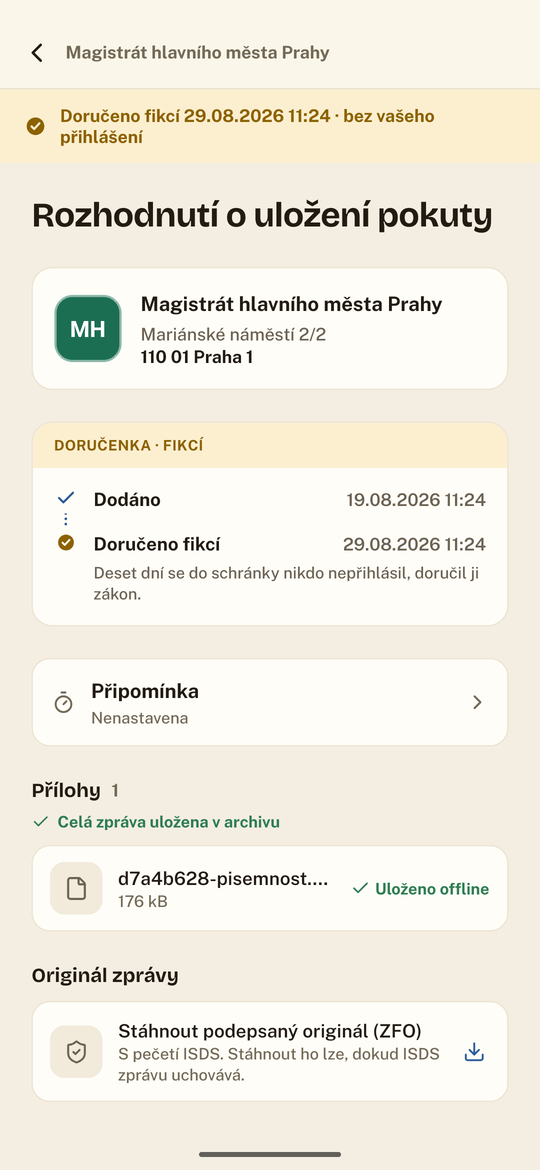
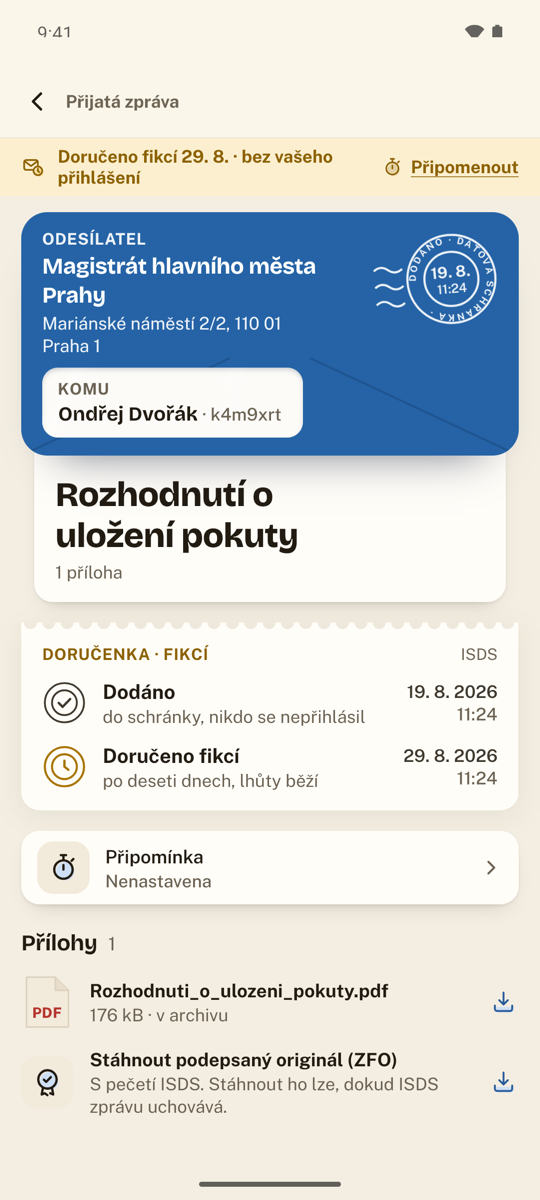
The README shows the redesigned app, and names who runs ISDS
Every picture in the README was from 2026-10-04, before the redesign:
both banners and 22 screenshots showed the old inbox. As chosen by the
owner (2026-11-18, dorhawk-website design/proposals/new-screens.html):

- Banners (cs, en): the same layout, the new merged inbox in light and
  dark from today's build.
- Screenshots: 24 new ones, 540 x 1200 (cs, en), taken on a Pixel 8
  emulator with the demo archive. The message, compose and the dark
  message come in; "Přílohy samy" goes (its options are in Settings).
  Captions in the app's words today ("V ostatních schránkách").
- "ani my" (twice) speaks as the project: "ani vývojáři".
- ISDS is administered by the Digitální a informační agentura and run by
  Česká pošta, as the website says; the README named the Ministerstvo
  vnitra (Co Obálka není, Licence; en too).

The film still shows the old design; its remake follows separately.

Checked: check-voice no findings; check-copy (cs on README.md, en on
README.en.md) no findings; every image path in both READMEs exists.

diff --git a/README.md b/README.md
@@ -74,26 +74,26 @@ Klient datových schránek pro Android a iOS. Otevřený kód, žádný server a
 
 <div align="center">
 
-| Sloučená schránka | Doručenka | Přepínač schránek |
+| Sloučená schránka | Zpráva a doručenka | Přepínač schránek |
 |:---:|:---:|:---:|
 | <img src="docs/screenshots/03-unified.png" width="230"> | <img src="docs/screenshots/04-detail.png" width="230"> | <img src="docs/screenshots/02-switcher.png" width="230"> |
-| Všechny schránky v jednom seznamu. Štítek u každé zprávy říká, kam přišla. | Co se stalo a kdy. Krok se zobrazí jen pro to, co se skutečně stalo. | Nepřečtené u každé schránky. „Vše“ je vidět, že je něco jiného než schránka. |
+| Všechny schránky v jednom seznamu. Štítek u každé zprávy říká, kam přišla. | Odesílatel a adresát na obálce, razítko s datem dodání, doručenka pod dopisem. | Nepřečtené u každé schránky. „Všechny schránky“ jsou vidět jako souhrn, ne jako další schránka. |
 
-| Hledání | Jedna schránka | Nastavení |
+| Hledání | Jedna schránka | Nová zpráva |
 |:---:|:---:|:---:|
-| <img src="docs/screenshots/05-search.png" width="230"> | <img src="docs/screenshots/01-inbox-box.png" width="230"> | <img src="docs/screenshots/06-settings.png" width="230"> |
-| Napříč všemi schránkami, v místním archivu, bez připojení. | Řádek „Jinde“ řekne, že něco leží i jinde, aniž by odvedl pozornost. | Vzhled, jazyk, zámek, přílohy, termíny, diagnostika. |
+| <img src="docs/screenshots/05-search.png" width="230"> | <img src="docs/screenshots/01-inbox-box.png" width="230"> | <img src="docs/screenshots/13-compose.png" width="230"> |
+| Napříč všemi schránkami, v místním archivu, bez připojení a bez diakritiky. | Řádek „V ostatních schránkách“ řekne, kolik nepřečteného leží jinde, a neodvede pozornost. | Adresuje se jako dopis: od koho a komu, příjemce podle jména nebo ID schránky. |
 
-| Přílohy samy | Záloha s přílohami | Nový telefon |
+| Nastavení | Záloha | Nový telefon |
 |:---:|:---:|:---:|
-| <img src="docs/screenshots/10-attachments.png" width="230"> | <img src="docs/screenshots/11-backup.png" width="230"> | <img src="docs/screenshots/12-transfer.png" width="230"> |
-| Jen nové zprávy, nebo i ty, které už v telefonu jsou. Zpráva zůstane nepřečtená. | Jen stažené přílohy, nebo všechny. Co ISDS už smazalo, řekne předem. | Vyberete hotovou zálohu a pošlete ji. Každá říká, jaké přílohy nese. |
+| <img src="docs/screenshots/06-settings.png" width="230"> | <img src="docs/screenshots/11-backup.png" width="230"> | <img src="docs/screenshots/12-transfer.png" width="230"> |
+| Vzhled, jazyk, zámek, přílohy, termíny, diagnostika. | Po každé aktualizaci schránky sama, šifrovaná, podle volby i s přílohami. | Vybraná záloha jde do druhého telefonu tak, jak je, a říká, jaké přílohy nese. |
 
 <br/>
 
 **Světlý i tmavý motiv, nezávisle na nastavení telefonu.**
 
-<img src="docs/screenshots/03-unified.png" width="230"> <img src="docs/screenshots/07-unified-dark.png" width="230">
+<img src="docs/screenshots/03-unified.png" width="230"> <img src="docs/screenshots/07-unified-dark.png" width="230"> <img src="docs/screenshots/08-detail-dark.png" width="230">
 
 <sub>Všechna data na snímcích jsou vymyšlená (<code>src/dev/demoData.ts</code>). Jména, IDs schránek,
 spisové značky i adresy jsou smyšlené.</sub>
@@ -140,7 +140,7 @@ Při aktualizaci schránky se stáhnou přílohy přijatých i odeslaných zprá
 </td>
 <td align="center">
 <h3>💾 Šifrovaná záloha</h3>
-Celý archiv, podle volby i se všemi přílohami. Bez hesla ji nikdo neotevře, ani my.
+Celý archiv, podle volby i se všemi přílohami. Bez hesla ji nikdo neotevře, ani vývojáři.
 </td>
 <td align="center">
 <h3>📲 Nový telefon</h3>
@@ -175,7 +175,7 @@ Tohle je klient vaší pošty od státu. Podle toho je postavený.
 | **Žádný server.**                 | Neexistuje backend, kam by šla vaše pošta nebo přihlašovací údaje. Aplikace mluví s ISDS, a jinam jen ve dvou případech, o kterých rozhodujete vy: hlášení o chybách (jen se souhlasem) a přenos archivu do jiného telefonu, který může jít přes veřejný relay nástroje croc – zašifrovaně, relay obsah nepřečte. |
 | **Nic na pozadí.**                | Provozní řád ISDS vyžaduje, aby se aplikace na místní stanici přihlašovala pouze *„pomocí manuálního příkazu uživatele“*. Obálka se nesynchronizuje na pozadí, vůbec. |
 | **Zámek aplikace.**               | Volitelný: otisk, obličej nebo kód zařízení. Když je zapnutý, zamyká i uložená hesla a přihlášení ke schránkám. Obsah se nikdy neobjeví v přepínači aplikací. |
-| **Šifrovaná záloha.**             | Heslo má jen uživatel (Argon2id + XChaCha20‑Poly1305, přílohy AES‑256‑GCM). Bez něj zálohu neotevře nikdo, ani my. |
+| **Šifrovaná záloha.**             | Heslo má jen uživatel (Argon2id + XChaCha20‑Poly1305, přílohy AES‑256‑GCM). Bez něj zálohu neotevře nikdo, ani vývojáři. |
 | **Hlášení o chybách se ptají.**   | Odesílá se, kde chyba nastala a jaká byla. Nikdy obsah zpráv, předměty, jména, ID schránek, přihlašovací údaje, přílohy ani text dokumentů. Servery v EU, vypnutelné kdykoliv. |
 | **Režim ladění nic neodesílá.**   | Zaznamená technický průběh do souboru v telefonu; ten sdílíte vy, komu chcete. |
 
@@ -189,7 +189,7 @@ Tohle je klient vaší pošty od státu. Podle toho je postavený.
 
 |                                     |                                                                                                   |
 | ----------------------------------- | ------------------------------------------------------------------------------------------------- |
-| **Není to oficiální aplikace.**     | Nezávislý klient. Není od Ministerstva vnitra ani od provozovatele ISDS a není s nimi nijak spojený. |
+| **Není to oficiální aplikace.**     | Nezávislý klient. Není od Digitální a informační agentury, která ISDS spravuje, ani od České pošty, která ho provozuje, a není s nimi nijak spojený. |
 | **Není to cloudová služba.**        | Žádný účet, žádný server. Archiv je v telefonu a jinam jde jen záloha, kterou si sami přesunete.  |
 | **Nečte vaši poštu za vás.**        | Obsah příloh se nečte, dokud nezapnete hledání termínů – a i potom jen v telefonu.                 |
 | **Nenahrazuje právní radu.**        | Lhůty a doručení fikcí ukazuje jako pomoc. Rozhodující je, co říká zákon a samotná zpráva.        |
@@ -311,7 +311,8 @@ vývojářům [koupit kafe](https://buymeacoffee.com/software.dorhawk). Nic se t
 ## Licence
 
 [MIT](LICENSE). Obálka je nezávislý klient datových schránek. Není to oficiální aplikace
-Ministerstva vnitra ani provozovatele ISDS a není s nimi nijak spojena.
+Digitální a informační agentury, která ISDS spravuje, ani České pošty, která ho provozuje, a není s nimi
+nijak spojena.
 
 <br/>
 

diff --git a/README.en.md b/README.en.md
@@ -75,26 +75,26 @@ A client for Czech data boxes (datové schránky) on Android and iOS. Open sourc
 
 <div align="center">
 
-| Unified inbox | Delivery record | Box switcher |
+| Unified inbox | Message and delivery record | Box switcher |
 |:---:|:---:|:---:|
 | <img src="docs/screenshots/en/03-unified.png" width="230"> | <img src="docs/screenshots/en/04-detail.png" width="230"> | <img src="docs/screenshots/en/02-switcher.png" width="230"> |
-| Every box in one list. A chip on each message says which box it arrived in. | What happened, and when. A step appears only for something that actually happened. | Unread counts per box. "All" is visibly not just another box. |
+| Every box in one list. A chip on each message says which box it arrived in. | Sender and recipient on the envelope, a postmark with the delivery date, the record under the letter. | Unread counts per box. "All boxes" reads as a summary, not as one more box. |
 
-| Search | A single box | Settings |
+| Search | A single box | New message |
 |:---:|:---:|:---:|
-| <img src="docs/screenshots/en/05-search.png" width="230"> | <img src="docs/screenshots/en/01-inbox-box.png" width="230"> | <img src="docs/screenshots/en/06-settings.png" width="230"> |
-| Across every box, in the local archive, with no connection. | An "Elsewhere" line says something is waiting in another box without stealing attention. | Appearance, language, lock, documents, deadlines, diagnostics. |
+| <img src="docs/screenshots/en/05-search.png" width="230"> | <img src="docs/screenshots/en/01-inbox-box.png" width="230"> | <img src="docs/screenshots/en/13-compose.png" width="230"> |
+| Across every box, in the local archive, with no connection and without diacritics. | The "In your other boxes" line says how much is unread elsewhere without stealing attention. | Addressed like a letter: from whom and to whom, the recipient by name or box ID. |
 
-| Documents by themselves | Backup with documents | A new phone |
+| Settings | Backup | A new phone |
 |:---:|:---:|:---:|
-| <img src="docs/screenshots/en/10-attachments.png" width="230"> | <img src="docs/screenshots/en/11-backup.png" width="230"> | <img src="docs/screenshots/en/12-transfer.png" width="230"> |
-| New messages only, or the ones already on the phone too. The message stays unread. | Only downloaded documents, or all of them. What ISDS already deleted is said up front. | Pick a finished backup and send it. Each one says which documents it carries. |
+| <img src="docs/screenshots/en/06-settings.png" width="230"> | <img src="docs/screenshots/en/11-backup.png" width="230"> | <img src="docs/screenshots/en/12-transfer.png" width="230"> |
+| Appearance, language, lock, documents, deadlines, diagnostics. | By itself after every refresh, encrypted, with the documents if you choose. | The chosen backup goes to the other phone as it is, and says which documents it carries. |
 
 <br/>
 
 **Light and dark, independent of the phone's own setting.**
 
-<img src="docs/screenshots/en/03-unified.png" width="230"> <img src="docs/screenshots/en/07-unified-dark.png" width="230">
+<img src="docs/screenshots/en/03-unified.png" width="230"> <img src="docs/screenshots/en/07-unified-dark.png" width="230"> <img src="docs/screenshots/en/08-detail-dark.png" width="230">
 
 <sub>Every piece of data in these screenshots is invented (<code>src/dev/demoData.ts</code>). The
 names, box IDs, case numbers and addresses are all fictional.</sub>
@@ -190,7 +190,7 @@ This is a client for your mail from the state. It is built accordingly.
 
 |                                     |                                                                                                    |
 | ----------------------------------- | -------------------------------------------------------------------------------------------------- |
-| **Not an official app.**            | An independent client. Not from the Ministry of the Interior or the ISDS operator, and not affiliated with either. |
+| **Not an official app.**            | An independent client. Not from the Digital and Information Agency, which administers ISDS, or from Česká pošta, which operates it, and not affiliated with either. |
 | **Not a cloud service.**            | No account, no server. The archive is on the phone; only a backup you move yourself goes anywhere. |
 | **Not reading your mail for you.**  | Attachment contents are not read until you turn on the deadline scan, and even then only on the phone. |
 | **Not legal advice.**               | Deadlines and service by fiction are shown as help. What counts is the law and the message itself. |
@@ -317,7 +317,8 @@ you can [buy the developers a coffee](https://buymeacoffee.com/software.dorhawk)
 ## Licence
 
 [MIT](LICENSE). Obálka is an independent data-box client. It is not an official application of the
-Ministry of the Interior or of the ISDS operator, and is not affiliated with either.
+Digital and Information Agency, which administers ISDS, or of Česká pošta, which operates it, and is not
+affiliated with either.
 
 <br/>
 
